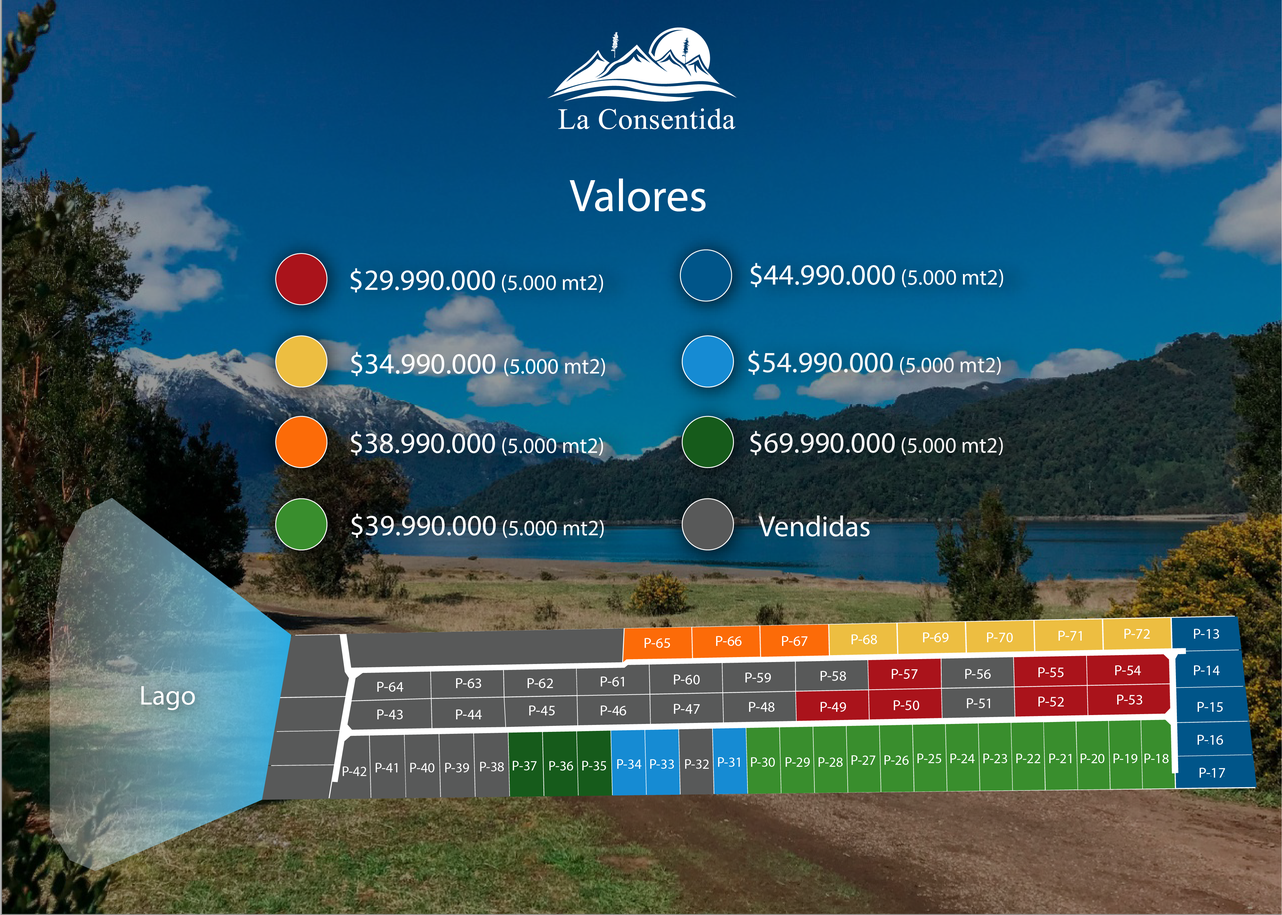
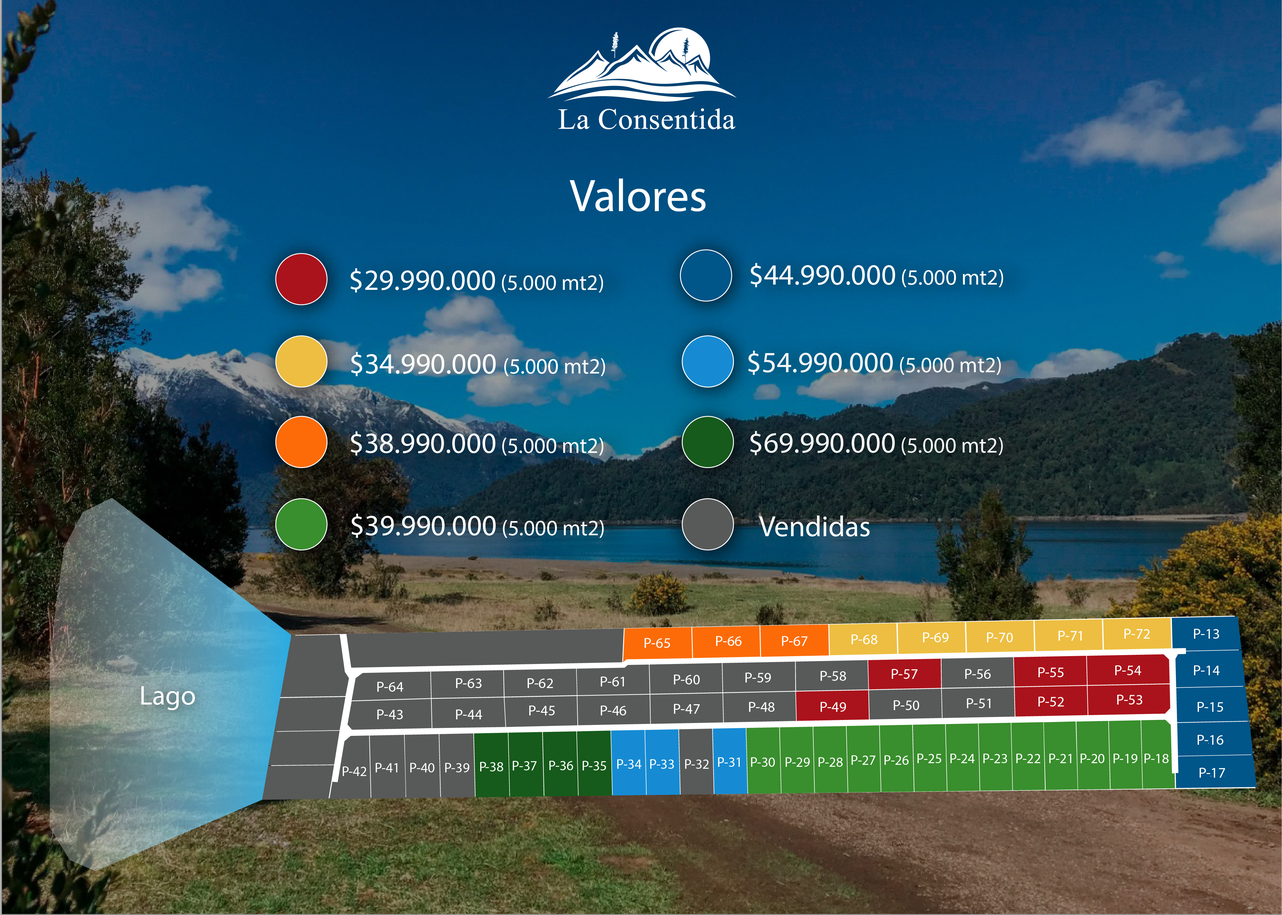
actualizando parcelas

Changed region(s): [[0.3422, 0.7739, 0.4044, 0.8978], [0.6532, 0.743, 0.7465, 0.8049]]

diff --git a/view/componentes/mapsvg/js/volantin.js b/view/componentes/mapsvg/js/volantin.js
@@ -238,9 +238,9 @@ jQuery(document).ready(function () {
             'P-1': {
                 id: "P-1",
                 'id_no_spaces': "P-1",
-                 fill: "rgba(88,89,89,1)",
-                tooltip: "VENDIDA",
-                popover: "VENDIDA",
+                 fill: "rgba(252,107,8,1)",
+                tooltip: "$15.990.000",
+                popover: "$15.990.000",
                 data: {}
             },
             'P-15': {
@@ -302,9 +302,9 @@ jQuery(document).ready(function () {
             'P-10': {
                 id: "P-10",
                 'id_no_spaces': "P-10",
-                  fill: "rgba(88,89,89,1)",
-                tooltip: "VENDIDA",
-                popover: "VENDIDA",
+                  fill: "rgba(41,140,68,1)",
+                tooltip: "$11.490.000",
+                popover: "$11.490.000",
                 data: {}
             },
             'P-11': {

diff --git a/view/componentes/mapsvg/js/laconsentida.js b/view/componentes/mapsvg/js/laconsentida.js
@@ -97,9 +97,9 @@
                     'p-38': {
                         id: "p-38",
                         'id_no_spaces': "p-38",
-                        fill: "rgba(88,89,89,1)",
-                        tooltip: "$NO DISPONIBLE",
-                        popover: "$NO DISPONIBLE",
+                        fill: "rgba(22,91,27,1)",
+                        tooltip: "$69.990.000",
+                        popover: "$69.990.000",
                         data: {}
                     },
                     

diff --git a/view/modulos/parcelacionelvolantin.php b/view/modulos/parcelacionelvolantin.php
@@ -149,18 +149,28 @@
                                                     <p>$11.490.000</p>
                                                 </div>
                                             </div>
+                                            
+                                            <div class="col-md-6">
+                                                <br>
+                                                <div class="valor6">
+                                                    <p>$15.990.000</p>
+                                                </div>
+                                            </div>
+                                            
+                                        </div>
+                                       
+                                        <div class="row">
+                                            <div class="col-md-6">
+                                               <br>
+                                                <div class="valor1">
+                                                    <p>$10.490.000</p>
+                                                </div>
+                                            </div>
+                                            
                                             <div class="col-md-6">
                                                 <br>
                                                 <div class="valor5">
                                                     <p>VENDIDA</p>
-                                                </div>
-                                            </div>
-                                        </div>
-                                        <br>
-                                        <div class="row">
-                                            <div class="col-md-6">
-                                                <div class="valor1">
-                                                    <p>$10.490.000</p>
                                                 </div>
                                             </div>
                                            
